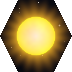
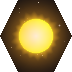
Suns glow past their hex; coloured suns in storms; each black hole once
The sun is drawn centred over its neighbours with a smaller halo that
fades out past its hex. Suns in plasma storms are red, blue or green.
Plasma storms on Manufacturing Consent hold only suns and pulsars. Two
more supermassive black holes (six looks) and ^Ybh1..^Ybh6 let each map
show every black hole once: Manufacturing Consent uses all six, Media
Control its four small ones each in a different look.

Claude-Session: https://claude.ai/code/session_01QPP7mgXmu1k87NtZM6VJK3

diff --git a/tools/make_art.py b/tools/make_art.py
@@ -1445,26 +1445,57 @@ def spend_old_asteroid_draws(rng):
             rng.uniform(0, 360)
 
 
-def build_star(rng, out):
-    s = HEX
+STAR_SIZE = 128   # bigger than a hex, so the glow fades out past the hex edge
+
+
+# Coloured suns for plasma storms: (corona rgb, core rgb), picked per hex.
+STORM_STARS = [((255, 70, 50), (255, 200, 170)),     # red
+               ((90, 150, 255), (220, 235, 255)),    # blue
+               ((80, 235, 120), (215, 255, 220))]    # green
+
+
+def star_image(tex, corona_rgb=None, core_rgb=None):
+    """A sun on a STAR_SIZE square: a white-hot core in a rayed corona and a
+    soft glow that fades out beyond its hex. Yellow unless given colours."""
+    s = STAR_SIZE
     yy, xx = np.mgrid[0:s, 0:s].astype(np.float32)
     c = (s - 1) / 2
     d = np.sqrt((xx - c) ** 2 + (yy - c) ** 2)
     ang = np.arctan2(yy - c, xx - c)
     rays = 0.5 + 0.5 * np.sin(ang * 11 + 1.3) * np.sin(ang * 7)
-    core_r = 19
-    corona = np.clip(1 - (d - core_r) / (17 + 8 * rays), 0, 1) ** 1.6
+    core_r = 17
+    corona = np.clip(1 - (d - core_r) / (11 + 9 * rays), 0, 1) ** 1.6
+    glow = np.clip(1 - (d - core_r) / (s / 2 - core_r - 2), 0, 1) ** 2.4 * 0.55
     core = np.clip(core_r + 1 - d, 0, 1)
-    tex = fractal_noise(rng, s, 4, 4)
     rgb = np.zeros((s, s, 3), np.float32)
-    rgb[..., 0] = 255
-    rgb[..., 1] = 150 + 100 * core * (0.6 + 0.4 * tex) + 40 * (1 - core) * corona
-    rgb[..., 2] = 40 + 170 * core * np.clip(1 - d / core_r, 0, 1) ** 0.7
-    alpha = 255 * np.maximum(core, corona * 0.85)
-    img = Image.fromarray(np.dstack([rgb, alpha]).clip(0, 255).astype(np.uint8), "RGBA")
+    if corona_rgb is None:
+        rgb[..., 0] = 255
+        rgb[..., 1] = 150 + 100 * core * (0.6 + 0.4 * tex) + 40 * (1 - core) * np.maximum(corona, glow)
+        rgb[..., 2] = 40 + 170 * core * np.clip(1 - d / core_r, 0, 1) ** 0.7
+    else:
+        hot = (core * (0.75 + 0.25 * tex) * np.clip(1 - d / core_r, 0, 1) ** 0.5)[..., None]
+        rim = core[..., None] * (1 - hot)
+        rgb = (np.array(corona_rgb, np.float32) * (1 - core[..., None])
+               + np.array(core_rgb, np.float32) * 0.85 * rim + 255 * hot)
+    alpha = 255 * np.maximum.reduce([core, corona * 0.85, glow])
+    return Image.fromarray(np.dstack([rgb, alpha]).clip(0, 255).astype(np.uint8), "RGBA")
+
+
+def build_star(rng, out):
+    """The yellow sun and the coloured storm suns, drawn centred on their
+    hex (terrain-graphics.cfg)."""
+    s = STAR_SIZE
+    # (the same draws as before, so the art built after the star stays the same)
+    tex = np.asarray(Image.fromarray((fractal_noise(rng, HEX, 4, 4) * 255).astype(np.uint8))
+                     .resize((s, s), Image.BICUBIC), np.float32) / 255
+    img = star_image(tex)
     save(img, out, "images/terrain/sc/star.png", False)
+    for i, (corona_rgb, core_rgb) in enumerate(STORM_STARS):
+        save(star_image(tex, corona_rgb, core_rgb), out,
+             f"images/terrain/sc/star-storm{'' if i == 0 else i + 1}.png", False)
     tile = apply_mask(starfield(rng), hex_mask_cache)
-    tile.alpha_composite(img)
+    o = (s - HEX) // 2
+    tile.alpha_composite(img.crop((o, o, o + HEX, o + HEX)))
     save(apply_mask(tile, hex_mask_cache), out, "images/terrain/sc/star-tile.png", False)
 
 

diff --git a/tools/make_manufacturing_consent.py b/tools/make_manufacturing_consent.py
@@ -40,11 +40,12 @@ T = {".": "Ys", "n": "Yn", "a": "Ys^Ya", "w": "Ys^Yw", "p": "Ys^Vyp",
      # barriers that replace most of the asteroid walls (see BARRIERS)
      "D": "Yqd", "R": "Yqr", "P": "Yqp", "E": "Yqe", "G": "Yqd^Ygg",
      "H": "Yqr^Ygc", "X": "Yqe^Yxb", "U": "Yqr^Yxp", "S": "Ys^Yx",
-     "O": "Yqe^Ybh", "T": "Yqp^Yx", "V": "Yqp^Yxp", "Z": "Yqp^Yxb2"}
+     "O": "Yqe^Ybh", "T": "Yqp^Yx", "V": "Yqp^Yxp",
+     **{str(n): f"Yqe^Ybh{n}" for n in range(1, 7)}}
 WESNOTH = {".": "Gg", "n": "Gs^Fp", "a": "Hh", "w": "Md^Xm", "p": "Gg^Vh",
            "K": "Kh", "c": "Ch", "r": "Re", "B": "Wo", "f": "Wo^Bsb\\",
            "s": "Ss", "m": "Gg^Tf"}
-WESNOTH.update({ch: "Md^Xm" for ch in "DRPEGHXUSOTVZ"})
+WESNOTH.update({ch: "Md^Xm" for ch in "DRPEGHXUSOTV123456"})
 LEAFY = "Gg^Fds"                 # every third wood hex is deciduous
 
 # The north-west quarter, in screenshot pixels (x < 562, y < 485)
@@ -262,24 +263,25 @@ CENTRE_BARRIERS = [("X", [(21, 12), (21, 17)]), ("E", [(20, 12), (22, 12), (20, 
 # Added on request: every cluster of barriers has a centrepiece. Each
 # cluster of gravity eddies has a supermassive black hole (4 hexes, which
 # takes one more hex, open before, to make the diamond), each plasma storm a
-# star, pulsar or black hole at its corner, and the radiation zones round
+# star or a pulsar at its corner (stars in storms are red, blue or green), and the radiation zones round
 # the south gas giants hold globular clusters instead (see "H" in T).
 # In-game coordinates, both halves.
 CENTREPIECES = [
-    ("O", [(16, 9), (17, 9), (17, 10), (18, 9)]),       # north-west eddies
-    ("O", [(24, 9), (25, 9), (25, 10), (26, 9)]),       # north-east
-    ("O", [(16, 19), (17, 19), (17, 20), (18, 19)]),    # south-west
-    ("O", [(24, 19), (25, 19), (25, 20), (26, 19)]),    # south-east
-    ("O", [(20, 12), (21, 12), (22, 12), (21, 13)]),    # the centre ring's north arc
-    ("O", [(20, 16), (21, 16), (22, 16), (21, 17)]),    # and south arc
+    # (each a different one of the six looks, 1-6)
+    ("1", [(16, 9), (17, 9), (17, 10), (18, 9)]),       # north-west eddies
+    ("2", [(24, 9), (25, 9), (25, 10), (26, 9)]),       # north-east
+    ("3", [(16, 19), (17, 19), (17, 20), (18, 19)]),    # south-west
+    ("4", [(24, 19), (25, 19), (25, 20), (26, 19)]),    # south-east
+    ("5", [(20, 12), (21, 12), (22, 12), (21, 13)]),    # the centre ring's north arc
+    ("6", [(20, 16), (21, 16), (22, 16), (21, 17)]),    # and south arc
     ("T", [(18, 3)]), ("V", [(24, 3)]),                 # the plasma storms
-    ("Z", [(18, 25)]), ("T", [(24, 25)]),
+    ("V", [(18, 25)]), ("T", [(24, 25)]),
 ]
 
 
 def centrepieces(grid):
     for ch, hexes in CENTREPIECES:
-        cloud = "E" if ch == "O" else "P"
+        cloud = "E" if ch in "O123456" else "P"
         for X, Y in hexes:
             assert grid[Y - 1][X - 1] in (cloud, "X", "."), (X, Y, grid[Y - 1][X - 1])
             grid[Y - 1][X - 1] = ch

diff --git a/tools/make_barriers.py b/tools/make_barriers.py
@@ -335,6 +335,12 @@ BIG_BLACK_HOLES = [
     dict(tilt=0.1, angle=8, tint=(1.0, 0.35, 0.2), hot=(1.0, 0.85, 0.7)),           # red, edge-on
     dict(tint=(1.0, 0.45, 0.12), hot=(1.0, 0.85, 0.5), eht=True),                    # orange ring, from the pole
 ]
+# two more, added later (drawn with their own seed), so a map can show six
+# different ones
+BIG_BLACK_HOLES_MORE = [
+    dict(tilt=0.22, angle=-20, tint=(1.0, 0.88, 0.62), hot=(1.0, 1.0, 0.95)),      # white-gold, tilted
+    dict(tilt=0.4, angle=16, tint=(0.78, 0.5, 1.0), hot=(0.95, 0.9, 1.0)),          # violet, tilted
+]
 GLOBULAR_CLUSTERS = [dict(), dict(rc=9, warm=0.9), dict(rc=16, warm=0.3, n=20000), dict(rc=11, warm=0.75, rt=64)]
 
 
@@ -512,3 +518,7 @@ def build_objects(rng, out, save, apply_mask, starfield, mask):
                 tile = apply_mask(starfield(grng), mask)
                 tile.alpha_composite(img.resize((HEX - 4, HEX - 4), Image.LANCZOS), (2, 2))
                 save(apply_mask(tile, mask), out, f"images/terrain/sc/{name}-tile.png", False)
+    mrng = np.random.default_rng(rng.bit_generator.seed_seq.entropy + 4)
+    for i, style in enumerate(BIG_BLACK_HOLES_MORE):
+        save(big_black_hole(mrng, **style), out,
+             f"images/terrain/sc/black-hole-big{len(BIG_BLACK_HOLES) + i + 1}.png", False)

diff --git a/tools/make_media_control.py b/tools/make_media_control.py
@@ -62,6 +62,17 @@ WESNOTH = {".": "Gg", "n": "Gs^Fp", "a": "Hh", "w": "Md^Xm", "p": "Gg^Vh",
            "e": "Ds", "o": "Re", "q": "Ss^Vhs", "C": "Chs"}
 BARRIER = "wDRPESUXG"
 WESNOTH.update({ch: "Md^Xm" for ch in BARRIER})
+# the four black holes, each drawn with a different one of the four looks
+T.update({str(n): f"Yqe^Yxb{n}" for n in range(1, 5)})
+WESNOTH.update({str(n): "Md^Xm" for n in range(1, 5)})
+
+
+def number_black_holes(grid):
+    holes = sorted((y, x) for y, row in enumerate(grid) for x, ch in enumerate(row) if ch == "X")
+    assert len(holes) == 4, holes
+    for n, (y, x) in enumerate(holes, 1):
+        grid[y][x] = str(n)
+    return grid
 LEAFY = "Gg^Fds"                 # every third wood hex is deciduous
 
 # The north-west quarter, in screenshot pixels (x < 547, y < 539)
@@ -385,6 +396,7 @@ def write(grid, keeps, path, table=T, base_only=("Yk", "Ys^Vyp")):
 
 if __name__ == "__main__":
     grid, keeps = build()
+    grid = number_black_holes(grid)
     write(grid, keeps, os.path.join(sys.argv[1], "maps/4p_Media_Control.map"))
     write(grid, keeps, os.path.join(
         sys.argv[1], "maps/default-terrain/4p_Media_Control.map"),
